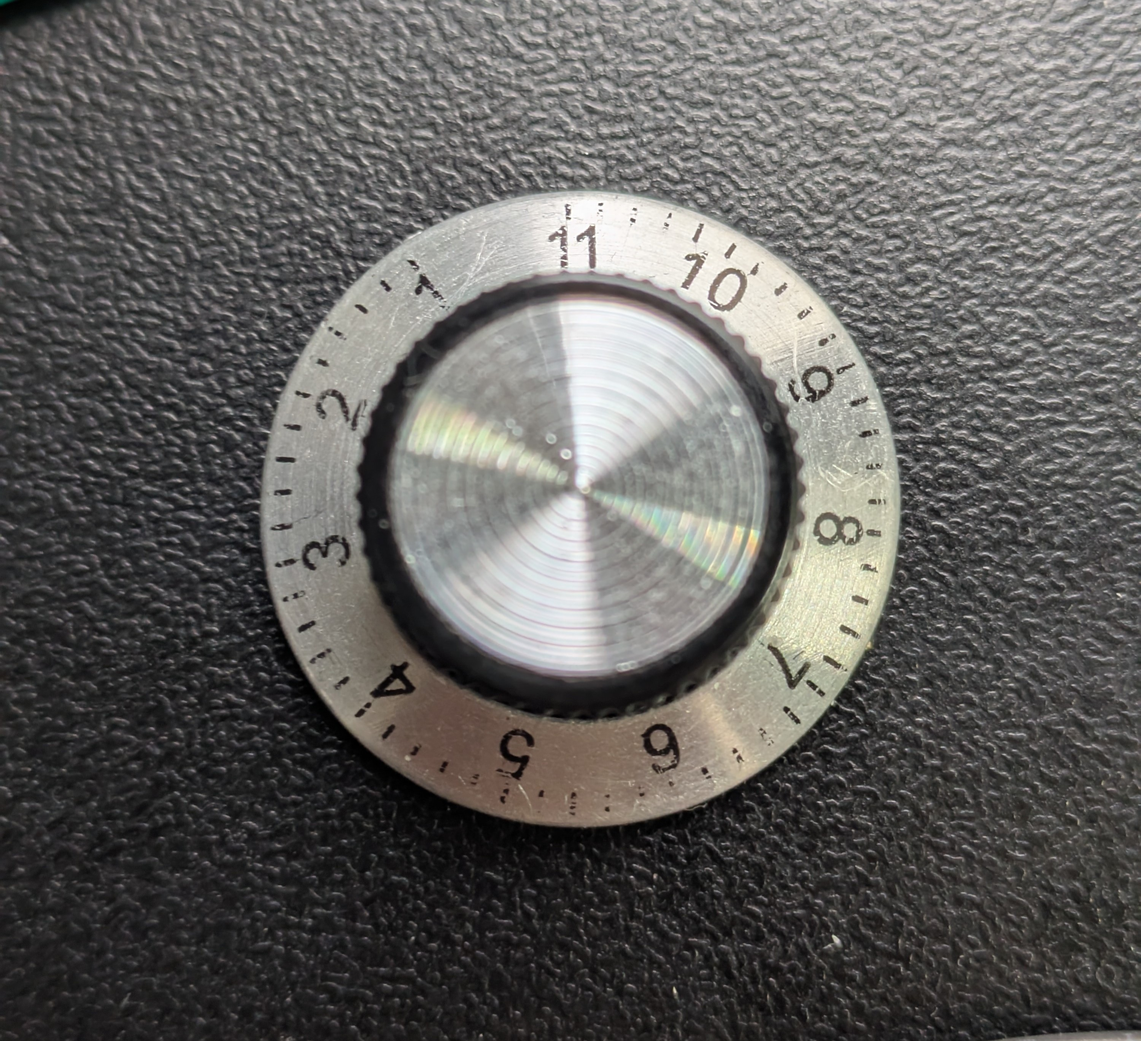
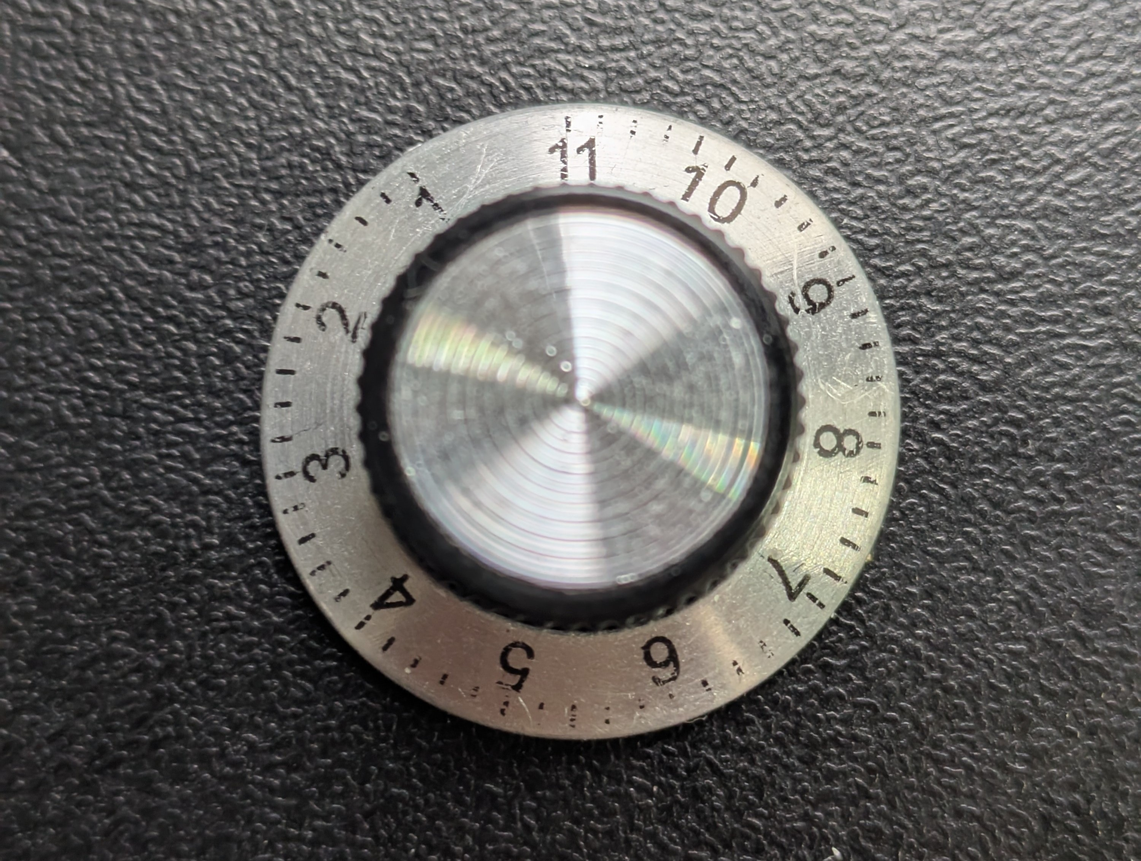
fixed typos and small edits
fixed numerous typos across posts. made small edit to noise.md and cropped image of knob.

diff --git a/_apple-2-blog/splitting.md b/_apple-2-blog/splitting.md
@@ -14,7 +14,7 @@ At the end of the [last post](/apple-2-blog/memory#what-if-i-want-more), while l
 
 ## Parting is not always such sweet sorrow
 
-To spoil the suspence, I'm putting this at the top. Here's is a special nighttime edition of my code running multiple k-means, with the data generation broken into a separate program, on the <span class="no-break">Apple ]\[+</span> hardware.
+To spoil the suspense, I'm putting this at the top. Here's is a special nighttime edition of my code running multiple k-means, with the data generation broken into a separate program, on the <span class="no-break">Apple ]\[+</span> hardware.
 
 {% include video id="VN-NouXrqgg" provider="youtube" %}
 
@@ -27,7 +27,7 @@ To spoil the suspence, I'm putting this at the top. Here's is a special nighttim
 
 The idea is relatively simple. Figure out how to break up the program into independent parts, make each one a separate program and then have them call each other so that only one of them is in memory at any given time. Ezpz. The implementation, however, gets complicated, especially when you consider that all variables are lost when loading a new program (although `HGR` memory persists, which could be handy, as well as any data `POKE`ed into RAM, including the expansion memory card) and each new program will `RUN` from the beginning. As such, this takes planning, especially if you want to run a second program from inside a loop. All the data that needs to be saved or transferred must either be written to floppy or `POKE`ed somewhere safe.
 
-This level of code manipulation would have been a nightmare without Visual Studio Code. Using it, however, made things quite easy. I decided I'd start by pulling out all the code that synthesizes data points into a separate `generate` program. After moving over all the hyperparameters as well as the drawing and generating routings, I added a simple routine to save the data to floppy.
+This level of code manipulation would have been a nightmare without Visual Studio Code. Using it, however, made things quite easy. I decided I'd start by pulling out all the code that synthesizes data points into a separate `generate` program. After moving over all the hyper-parameters as well as the drawing and generating routines, I added a simple routine to save the data to floppy.
 
 ```bbcbasic
 1240 REM == save data to disk ==
@@ -47,7 +47,7 @@ This level of code manipulation would have been a nightmare without Visual Studi
 1380 RETURN
 ```
 
-In the remaing code, which I renamed from `ml` to `k-means`, I now needed a way to determine if the data was on the floppy and branch accordingly. I now start by jumping to the code below. If the file `DATA` exists, it'll populate `DS%(NS% - 1,3)` and then `RETURN`. If not, `INPUT NS%` will throw an error and `ONERR` will then branch to `PRINT D$;"RUN GENERATE"`. `generate` will then run, create the `DATA` file and launch `k-means`. Once the data is loaded, I proceed with multiple runs of k-means, as before.
+In the remaining code, which I renamed from `ml` to `k-means`, I now needed a way to determine if the data was on the floppy and branch accordingly. I now start by jumping to the code below. If the file `DATA` exists, it'll populate `DS%(NS% - 1,3)` and then `RETURN`. If not, `INPUT NS%` will throw an error and `ONERR` will then branch to `PRINT D$;"RUN GENERATE"`. `generate` will then run, create the `DATA` file and launch `k-means`. Once the data is loaded, I proceed with multiple runs of k-means, as before.
 
 ```bbcbasic
 1680 REM == Load data from disk ==
@@ -84,26 +84,26 @@ It's worth noting that I previously wrote a post about how I was (proudly) [not 
 
 Not only does it take ~5min to transfer a floppy image from my laptop to the <span class="no-break">Apple ]\[+</span>, I actually need an emulator (AppleWin) to create the image. Naturally, only running on the hardware would be a missive impediment so I have taken to running updates on the emulator and then transferring to the hardware once everything is looking good.
 
-While there might be a way to turn off the generative AI in Visual Studio Code, it's too good to ignore. Below are three examples of the IDE prediciting what I want to type next. While they're also crazy, I found the second one to be particularly impressive. As I'm typing `FRE(0)`, Visual Studio Code anticipats that I want to finish that line of code with `; " BYTES FREE"`. For it to predict this, it would have had to know, without almost no latency, the functionality of `FRE(0)`.
+While there might be a way to turn off the generative AI in Visual Studio Code, it's too good to ignore. Below are three examples of the IDE predicting what I want to type next. While they're also crazy, I found the second one to be particularly impressive. As I'm typing `FRE(0)`, Visual Studio Code anticipates that I want to finish that line of code with `; " BYTES FREE"`. For it to predict this, it would have had to know, without almost no latency, the functionality of `FRE(0)`.
 
 <div class="image-grid" markdown="1">
   [![Visual Studio Code anticipating a line of code](/assets/images/apple2/visual-studio-anticipation.png)](/assets/images/apple2/visual-studio-anticipation.png "Visual Studio Code anticipating a line of code")
-  [![Visual Studio Code prediciting the end of a line of code](/assets/images/apple2/visual-studio-more-anticipation.png)](/assets/images/apple2/visual-studio-more-anticipation.png "Visual Studio Code prediciting the end of a line of code")
-  [![Visual Studio Code prediciting an update to another block of code](/assets/images/apple2/visual-studio-ai.png)](/assets/images/apple2/visual-studio-ai.png "Visual Studio Code prediciting an update to another block of code")
+  [![Visual Studio Code predicting the end of a line of code](/assets/images/apple2/visual-studio-more-anticipation.png)](/assets/images/apple2/visual-studio-more-anticipation.png "Visual Studio Code predicting the end of a line of code")
+  [![Visual Studio Code predicting an update to another block of code](/assets/images/apple2/visual-studio-ai.png)](/assets/images/apple2/visual-studio-ai.png "Visual Studio Code predicting an update to another block of code")
 </div>
 
-Lastly, as I describe immediatley below, I've decided to use Claude to help find bugs and optimizations. Like Visual Studio Code, it's amazing, so I'm loath to give any of this up. That being said, moving forward I'm going to continue to do the algorithmic development by hand.
+Lastly, as I describe immediately below, I've decided to use Claude to help find bugs and optimizations. Like Visual Studio Code, it's amazing, so I'm loath to give any of this up. That being said, moving forward I'm going to continue to do the algorithmic development by hand.
 
 ## Squashing dem bugs
 
-As I've been playing around with the code, I noticed that, on occassion, in between a couple k-means runs the program would randomly branch to `generate` and begin synthesizing new data. That struck me as odd since the only way to brach to `generate` is through the `ONERR` statement I established right before attempting to load data from the floppy. If there's no data, the code brances to `generate`. Why would this be happening when there's obviously data loaded?
+As I've been playing around with the code, I noticed that, on occasion, in between a couple k-means runs the program would randomly branch to `generate` and begin synthesizing new data. That struck me as odd since the only way to branch to `generate` is through the `ONERR` statement I established right before attempting to load data from the floppy. If there's no data, the code branches to `generate`. Why would this be happening when there's obviously data loaded?
 
 Turns out, `ONERR` will branch on _any_ error and so if there is any bug in the code it'll launch `generate`. I decided to spin up Claude to give me a hand with this. First, it confirmed this suspicion and suggested `POKE 216,0` to disable the `ONERR` branch. Furthermore, it suggested doing this _after_ attempting to read data because, apparently, `OPEN` doesn't fail if there's no file (it'll just open a new one) and thus `READ` won't fail either, so the error doesn't occur until `INPUT NS`. Interestingly, `OPEN` in ProDOS will throw a `file not found` but I'm using DOS 3.3.
 
-Of course, this doesn't change the fact that apparently something else was causing an error. I was already aware of one - when drawingly the line between two centroids there's a random chance that one will be off the screen causeing `HPLOT` to throw and `illegal quanitity` error. I fixed this by adding a range check and just not plotting the line if this is the case. Since intermittent errors are painful to find, I asked Claude to do a deep code review for anything else and it found a couple doozies:
+Of course, this doesn't change the fact that apparently something else was causing an error. I was already aware of one - when drawing the line between two centroids there's a random chance that one will be off the screen causing `HPLOT` to throw and `illegal quantity` error. I fixed this by adding a range check and just not plotting the line if this is the case. Since intermittent errors are painful to find, I asked Claude to do a deep code review for anything else and it found a couple doozies:
 
 1. **Empty clusters** - k-means moves each centroid to the average of the points assigned to it. Trouble is, while unlikely, due to randomness, on a given pass a cluster can end up with no points at all. When this happens the count is zero and `KM(I,0) = KM(I,0) / KM(I,2)` will throw a `divide by zero` error. The fix was to just park empty cluster centroids.
-2. **Log(0)** - I use the Box-Muller transform to generate random normal numbers. This involves taking the natural log of a uniform random number. Applesoft's `RND(1)` returns a value in \[0, 1), which means `0` is a possible. In the very rare event this happens, `LOG(0)` will throw an `illegal quanitity` error. The fix is simply to draw `1 - RND(1)` instead, which lives in (0, 1] and so never returns `0`.
+2. **Log(0)** - I use the Box-Muller transform to generate random normal numbers. This involves taking the natural log of a uniform random number. Applesoft's `RND(1)` returns a value in \[0, 1), which means `0` is a possible. In the very rare event this happens, `LOG(0)` will throw an `illegal quantity` error. The fix is simply to draw `1 - RND(1)` instead, which lives in (0, 1] and so never returns `0`.
 
 ## Optimizations
 
@@ -120,7 +120,7 @@ Before wrapping up this post, I want to point out two optimizations. The first w
 
 Since I'm now a bit obsessed with saving code space, this was a nice win.
 
-On the theme of saving space for odd, the next idea came from yours truly. My range checking statements were proliferating and each of them was looking long. `IF X0% < 1 OR X0% > 270 THEN RETURN` and `IF X1% < 1 OR X1% > 150 THEN RETURN` check that a single point is on the screen prior to `HPLOT` in order to avoid any `illegal quanitity` error. For a line connecting two centroids, I would need 4 checks like that, which will take up a lot of space.
+On the theme of saving space for code, the next idea came from yours truly. My range checking statements were proliferating and each of them was looking long. `IF X0% < 1 OR X0% > 270 THEN RETURN` and `IF X1% < 1 OR X1% > 150 THEN RETURN` check that a single point is on the screen prior to `HPLOT` in order to avoid any `illegal quantity` error. For a line connecting two centroids, I would need 4 checks like that, which will take up a lot of space.
 
 I don't recall ever using `DEF FN` in high school, but I came across it while flipping through the Applesoft BASIC Programming Reference Manual, for jollies, and decided to create:
 
@@ -131,4 +131,4 @@ DEF FN V(Z) = (Z >= 0) * (Z < 160): REM Y in range
 
 These two functions can now determine if a point is on the screen with a simple `IF FN H(X0%) * FN V(X1%) THEN ...`. I now use these throughout. Assuring that an entire line is on the screen, I simply use `IF FN H(XA) * FN H(XB) * FN V(YA) * FN V(YB) THEN HPLOT XA, YA TO XB, YB`. Finally, checking that a 3x3 pixel object, centered around (`X0%`,`X1%`), fits on the screen, I use `FN H(X0% - 1) * FN H(X0% + 1) * FN V(X1% - 1) * FN V(X1% + 1)`.
 
-All of this extra RAM for code has afforded me some space to start analysizing how k-means behaves. More to come...
+All of this extra RAM for code has afforded me some space to start analyzing how k-means behaves. More to come...

diff --git a/_apple-2-blog/memory.md b/_apple-2-blog/memory.md
@@ -19,7 +19,7 @@ Fun. Unlike the [RAM issues](/apple-2-blog/revive/) I had before refurbishing th
 
 ## Memory map
 
-Here's a "RAM Organization and Usage" map that I pulled out of the <span class="no-break">Apple ]\[</span> Reference Manual. The <span class="no-break">Apple ]\[+</span> came with 48Kb of RAM (`$0000-$BFFF`) on the motherboard but I have the memory expansion card, also called a language card, with an extra 16Kb (`$C000-$FFFF`). Using the extra memory was complicated as the 16Kb were squeezed into a 12k addres space (`$D000-$FFFF`) by using bank switching. (I explored storing data on the language card, which would be relatively easy for integers but a nightmare for floats, but it hasn't come to that yet.)
+Here's a "RAM Organization and Usage" map that I pulled out of the <span class="no-break">Apple ]\[</span> Reference Manual. The <span class="no-break">Apple ]\[+</span> came with 48Kb of RAM (`$0000-$BFFF`) on the motherboard but I have the memory expansion card, also called a language card, with an extra 16Kb (`$C000-$FFFF`). Using the extra memory was complicated as the 16Kb were squeezed into a 12k address space (`$D000-$FFFF`) by using bank switching. (I explored storing data on the language card, which would be relatively easy for integers but a nightmare for floats, but it hasn't come to that yet.)
 
 | Page | Hex | Usage |
 |:----:|:---:|-------|
@@ -37,9 +37,9 @@ Here's a "RAM Organization and Usage" map that I pulled out of the <span class="
 | 200-207 | $C8-$CF | I/O ROM |
 | 208-255 | $D0-$FF | ROM or 16Kb language card |
 
-In "normal" operation, a BASIC program would reside starting at `$0800`, right after the primary text page, and on top of the secondary text page. From the end of the BASIC program, variables and arrays would grow up. Strings, for some reasons, would reside at `$BFFF` and grow down. If you don't use graphics, this gives you almost 46Kb of space. If you want to use the primary page of hi-res graphics, known as `HGR`, then you get only a paltry 6Kb of space for your program and variables. (This is surely an artifact of a 1977 design decision to enble `HGR` on machines that only shipped with 16Kb, making `$3FFF` the highest address in RAM.)
+In "normal" operation, a BASIC program would reside starting at `$0800`, right after the primary text page, and on top of the secondary text page. From the end of the BASIC program, variables and arrays would grow up. Strings, for some reasons, would reside at `$BFFF` and grow down. If you don't use graphics, this gives you almost 46Kb of space. If you want to use the primary page of hi-res graphics, known as `HGR`, then you get only a paltry 6Kb of space for your program and variables. (This is surely an artifact of a 1977 design decision to enable `HGR` on machines that only shipped with 16Kb, making `$3FFF` the highest address in RAM.)
 
-What you're seeing in the image above are my data arrays growing into `HGR`. When the arrays are declared, everything is zero, so there's no problem. As soon as I start writing values to the array, however, those show up on the screen. Similary, plotting graphics on the screen has the effect of writing values into the arrays. Obviously, this is a problem.
+What you're seeing in the image above are my data arrays growing into `HGR`. When the arrays are declared, everything is zero, so there's no problem. As soon as I start writing values to the array, however, those show up on the screen. Similarly, plotting graphics on the screen has the effect of writing values into the arrays. Obviously, this is a problem.
 
 ## Moving things around
 
@@ -154,13 +154,13 @@ In [Visual Studio Code](/apple-2-blog/adtpro/#visual-studio-code-for-the-win) I 
 510 RETURN
 ```
 
-The `REM` statements above have the AppleWin results but I also [trasferred the program](https://mdcramer.github.io/apple-2-blog/adtpro) and ran on the actual hardware. The results were _very_ similar: 2m59s for Box-Muller and 3m2s for Irwin-Hall. The emulator is impressive.
+The `REM` statements above have the AppleWin results but I also [transferred the program](https://mdcramer.github.io/apple-2-blog/adtpro) and ran on the actual hardware. The results were _very_ similar: 2m59s for Box-Muller and 3m2s for Irwin-Hall. The emulator is impressive.
 
 As a fun note, I tried changing the order of the two methods because I read that Applesoft BASIC implements lines of code as a linked list, so it takes longer to run lines of code that are further down.
 
 ## TIL the Apple ][+ has garbage collection
 
-While thumbing through the Applesoft BASIC Programming Reference Manual, as one is wont to do, I stumbled across `FRE(expr)`. Since the arrays grow up in memory and the strings grow down, as noted above, this command will return the amount of memory between the two, essentially telling you how much free RAM is left. As a side effect, since changing the contents of a string does not remove the old characters (it just adds the new characters to RAM and moves the pointer) it will force Appplesoft to "house clean," freeing up additional space. Fun fact: according to the manual, `expr` ony exists to hold the parenthesis apart, so just plugging in a `0` is standard.
+While thumbing through the Applesoft BASIC Programming Reference Manual, as one is wont to do, I stumbled across `FRE(expr)`. Since the arrays grow up in memory and the strings grow down, as noted above, this command will return the amount of memory between the two, essentially telling you how much free RAM is left. As a side effect, since changing the contents of a string does not remove the old characters (it just adds the new characters to RAM and moves the pointer) it will force Applesoft to "house clean," freeing up additional space. Fun fact: according to the manual, `expr` ony exists to hold the parenthesis apart, so just plugging in a `0` is standard.
 
 Since I'm not really using strings, garbage collection isn't important, but I might add `FRE(0)` to the code just to see what's happening. While adding the `PRINT PEEK(175) + 256 * PEEK(176)` trick to find the end of the program will necessitate making the program longer (by 54 bytes - I counted), I might do that, too, just for fun.
 

diff --git a/_apple-2-blog/refactoring.md b/_apple-2-blog/refactoring.md
@@ -15,9 +15,9 @@ I suppose there's a balance between planning out what you're going to do and jus
 
 Quick note on line numbers: refactoring BASIC almost _always_ consists of changing line numbers. As such, this code is not going to match up with previous posts. Hopefully that won't be confusing.
 
-## Refactoring the hyperparameters
+## Refactoring the hyper-parameters
 
-To make that happen, I start by moving all of my generator hyperparameters into a single array, `GE(..,..)`, where the first axis is the class. The second axis contains, respectively, \\(u_{x_0}, u_{x_1}, \sigma_{x_0}, \sigma_{x_1}, \rho\\) and \\(\sqrt{1 - \rho^2}\\). (See [Synthesizing data - Box-Muller](/apple-2-blog/synthesizing-data#box-muller-to-the-rescue) for details.) The last element is purely for performance since this quantity will be needed frequently. (Upon further refection, I could have used \\(\sqrt{1 - \rho^2} \sigma_{x_1}\\) but this is a small optimization for later.)
+To make that happen, I start by moving all of my generator hyper-parameters into a single array, `GE(..,..)`, where the first axis is the class. The second axis contains, respectively, \\(u_{x_0}, u_{x_1}, \sigma_{x_0}, \sigma_{x_1}, \rho\\) and \\(\sqrt{1 - \rho^2}\\). (See [Synthesizing data - Box-Muller](/apple-2-blog/synthesizing-data#box-muller-to-the-rescue) for details.) The last element is purely for performance since this quantity will be needed frequently. (Upon further refection, I could have used \\(\sqrt{1 - \rho^2} \sigma_{x_1}\\) but this is a small optimization for later.)
 
 ```bbcbasic
 100 REM == HYPERPARAMETERS ==
@@ -102,7 +102,7 @@ Since I'd like for my data to be randomly sampled, rather than scrambled after t
 700   ON K + 1 GOSUB 1200,1300: REM PLOT SAMPLE
 710 NEXT
 ```
-`RK%(..)` holds the remaining number of samples to be generated for each class. Lines 490 to 550 then produce a random number `P%` which is from 0 to the number of remaining samples to generate and then figures out which class this should be based on the remaining number of samples to be generated for each. The beauty of this is that the probability of generating a sample in each class will be a function of how many remaining samples need to be generated. It took a while to debug, but in the end this produces exactly the number of samples in each class as specified in the hyperparameters.
+`RK%(..)` holds the remaining number of samples to be generated for each class. Lines 490 to 550 then produce a random number `P%` which is from 0 to the number of remaining samples to generate and then figures out which class this should be based on the remaining number of samples to be generated for each. The beauty of this is that the probability of generating a sample in each class will be a function of how many remaining samples need to be generated. It took a while to debug, but in the end this produces exactly the number of samples in each class as specified in the hyper-parameters.
 
 The code from lines 580 to 690 is the same as previously, however, the class-specific variables have been replaced by `GE(..,..)`, as mentioned above. Also, I changed `X%` and `Y%` to `XO%` and `X1%` to avoid confusion and be more consistent with the \\(Y = \theta^T X\\) literature.
 
@@ -110,7 +110,7 @@ Line 700 is nifty. I don't recall using `ON..GOSUB` in high school but it enable
 
 ### Counting the samples
 
-For debugging purposes, I added some code to count the number of samples in each class to make sure it matched the hyperparameters. In the end, I decided to leave it. The loop is actually a bit slow but it's only run once.
+For debugging purposes, I added some code to count the number of samples in each class to make sure it matched the hyper-parameters. In the end, I decided to leave it. The loop is actually a bit slow but it's only run once.
 
 ```bbcbasic
 720 REM == COUNT SAMPLES OF EACH CLASS TO VERIFY RESULT ==

diff --git a/_apple-2-blog/k-means.md b/_apple-2-blog/k-means.md
@@ -80,11 +80,11 @@ At the very top of the program I decided to organize everything into subroutines
 
 The "wait for key" subroutine is the Applesoft BASIC method for simply waiting for any keystroke before continuing. (`PEEK` and `POKE` are commands for directly accessing addresses in memory. I had those numbers memorized in high school but, naturally, I had to look them up.) I thought it'd be nice to add this pause after generating the data but I might take it out later.
 
-Lastly, at the end of the "hyperparameters" section I declare a convenience array, `P%(2,1)` to keep track of 3 random points as well as a few arrays I'm going to use in the k-means algorithm. The reason I do this here is because in Applesoft BASIC you get an error if you declare an array that already exists. Should at some point I want to call the k-means algorithm multiple times, this won't be a problem.
+Lastly, at the end of the "hyper-parameters" section I declare a convenience array, `P%(2,1)` to keep track of 3 random points as well as a few arrays I'm going to use in the k-means algorithm. The reason I do this here is because in Applesoft BASIC you get an error if you declare an array that already exists. Should at some point I want to call the k-means algorithm multiple times, this won't be a problem.
 
 ### Initialize
 
-Getting started, the first thing to do is initialize the algorithm by generating \\(k\\) cluster centroids. (\\(k\\) is a hyperparameter that specifies the number of clusters to be "found." I set it previously with `KN = 2`.)
+Getting started, the first thing to do is initialize the algorithm by generating \\(k\\) cluster centroids. (\\(k\\) is a hyper-parameter that specifies the number of clusters to be "found." I set it previously with `KN = 2`.)
 
 ```bbcbasic
 2000 REM  == K-MEANS ==
@@ -223,7 +223,7 @@ This code is a slog and it's not really critical to understanding ML but I thoug
 3290 RETURN
 ```
 
-Without delving too far into the details, this routine relies heavily on the convenience array, `P%(2,1)`, that I declared during the "hyperparameters" routine. I start by computing the slope of the perpendicular segment connecting two centroids. I then find the midpoint of that segment. (By the way, this routine also does not account for all combinations of centroids, but it works when \\(k=2\\).) I accommodate for when the slope is vertical and use `P%(0,0)` and `P%(0,1)` to store the midpoint between the two centroids and `M` for the slope.
+Without delving too far into the details, this routine relies heavily on the convenience array, `P%(2,1)`, that I declared during the "hyper-parameters" routine. I start by computing the slope of the perpendicular segment connecting two centroids. I then find the midpoint of that segment. (By the way, this routine also does not account for all combinations of centroids, but it works when \\(k=2\\).) I accommodate for when the slope is vertical and use `P%(0,0)` and `P%(0,1)` to store the midpoint between the two centroids and `M` for the slope.
 
 I then iterate through the 4 sides of the 'box' on the screen, using the corners `(10,10)` and `(269,149)` so that the decision boundary isn't drawn all the way to the edges of the screen. I thought that would look prettier this way. I next determine if the decision boundary intersects, respectively, the left, right, top and bottom edges of the box. I use `NX` to keep track of the number of sides of the box intersected by the decision boundary and `P%(NX,0)` and `P%(NX,1)` to keep track of those intersections. If `NX = 3`, which means there are two intersections, I draw the line because it's inside the box.
 

diff --git a/_apple-2-blog/adtpro.md b/_apple-2-blog/adtpro.md
@@ -12,7 +12,7 @@ last_modified_at: 2026-06-10
 As mentioned previously, developing on the <span class="no-break">Apple ]\[+</span> has been [very painful](/apple-2-blog/emulator#suffering-on-the-real-hardware). While the [80-column card](/apple-2-blog/mo-columns) is nifty, and helps a bit, it's still a slog. The keyboard is old and not particularly ergonomic, the monitor is still small, there isn't an easy way to `LIST` specific sections of the code and characterizing the editing features as "clunky" would be charitable. What I'd like to do is use my modern Windows laptop to develop the code, and I'm not even talking about generative AI, but the problem is... how do I then get this onto the <span class="no-break">Apple ]\[+</span>. (Of course I could just use an emulator but how is that fun?)
 
 ## From the Apple ]\[+ to the laptop
-I've already been suffering in the other direction. To transfer the code I developed on the <span class="no-break">Apple ]\[+</span> to my laptop, so that you can witness all its glory on this blog, I've resorted to [taking screen shot with my phone](/apple-2-blog/emulator#transferring-applesoft-basic-code-to-this-blog) and then using ChatGPT and Claude to extract the code using [OCR](https://en.wikipedia.org/wiki/Optical_character_recognition){:target="_blank"}, which I then stitch together. Not only is that cumbersome, it's error-prone. After sharing my k-means writeup on [Hacker News](/apple-2-blog/k-means#social-media-sharing), a very helpful [gentleman](https://github.com/thecloudexpanse){:target="_blank"} tried to run my code and found a bunch of errors, which he shared with me on GitHub. Turns out, the OCR was _far_ from perfect.
+I've already been suffering in the other direction. To transfer the code I developed on the <span class="no-break">Apple ]\[+</span> to my laptop, so that you can witness all its glory on this blog, I've resorted to [taking screen shot with my phone](/apple-2-blog/emulator#transferring-applesoft-basic-code-to-this-blog) and then using ChatGPT and Claude to extract the code using [OCR](https://en.wikipedia.org/wiki/Optical_character_recognition){:target="_blank"}, which I then stitch together. Not only is that cumbersome, it's error-prone. After sharing my k-means write-up on [Hacker News](/apple-2-blog/k-means#social-media-sharing), a very helpful [gentleman](https://github.com/thecloudexpanse){:target="_blank"} tried to run my code and found a bunch of errors, which he shared with me on GitHub. Turns out, the OCR was _far_ from perfect.
 
 ## From the laptop to the Apple ]\[+
 More importantly, however, when I asked him how he was able to get my code off this blog and onto his <span class="no-break">Apple //e</span> computer, he turned me on to [ADTPro](https://www.adtpro.com/){:target="_blank"} (Apple Disk Transfer ProDOS). It is software that transfers floppy images over the cassette jacks between a modern computer and <span class="no-break">Apple ]\[-era</span> computers. Ingenious.

diff --git a/_apple-2-blog/noise.md b/_apple-2-blog/noise.md
@@ -9,7 +9,7 @@ date: 2026-07-03
 last_modified_at: 2026-07-03
 ---
 
-Taking a break from exploring k-means on my <span class="no-break">Apple ]\[+</span>, I decided to takle the problem of significantly greater import: the speaker is really loud. I don't recall this ever bothering me in high school, but it's pretty loud and there is no way to non-programmatically control the volume.
+Taking a break from exploring k-means on my <span class="no-break">Apple ]\[+</span>, I decided to tackle a problem of significantly greater import: the speaker is really loud. I don't recall this ever bothering me in high school but it's pretty loud and there is no way to non-programmatically control it. I'd like to have a volume knob so I can play [Ultima 1](https://mortalwayfare.com/in-the-beginning-there-was-basic/){:target="_blank"} late at night without waking the dead.
 
 ## It goes to 11
 
@@ -17,7 +17,7 @@ There's not a lot of how-to retro hardware upgrade videos on the internet but I 
 
 {% include video id="rO5eXxVxK_4" provider="youtube" %}
 
-While it's a little difficult to follow (he offers a schmetic but it's hard to tell which wires are going where), he links to the necessary parts. In addition to a 1kΩ audio log potentiometer, I got a knob that [goes to 11](https://youtu.be/uMSV4OteqBE?si=e2hANo3D6ktuzAxs&t=78){:target="_blank"} and an STL file to 3D print a small mount for the potentiometer and knob that slides into one of the air vents.
+While it's a little difficult to follow (he offers a schematic but it's hard to tell which wires are going where), he links to the necessary parts. In addition to a 1kΩ audio log potentiometer, I got a knob that [goes to 11](https://youtu.be/uMSV4OteqBE?si=e2hANo3D6ktuzAxs&t=78){:target="_blank"} and an STL file to 3D print a small mount for the potentiometer and knob that slides into one of the air vents.
 
 <div class="image-grid" markdown="1">
   [![Parts and equipment to add a volume knob](/assets/images/apple2/parts-for-volume-know.jpg)](/assets/images/apple2/parts-for-volume-know.jpg "Parts and equipment to add a volume knob")
@@ -72,7 +72,7 @@ From there it was easy. I chose the colors of the jumper cables to line up with 
 
 ## The Verdict
 
-It works!
+It works! (Turn up the volumn on your computer if you watch the video below.)
 
 {% include video id="zObSVatIQxs" provider="youtube" %}
 

diff --git a/_apple-2-blog/synthesizing-data.md b/_apple-2-blog/synthesizing-data.md
@@ -73,7 +73,7 @@ With a particular fondness for all thing [Gaussian](https://en.wikipedia.org/wik
 ```
 `HOME` clears the screen and `VTAB 21` moves the cursor to the 21st text line on the screen, which will be the first line under the graphics after `HGR`. The <span class="no-break">Apple ]\[+</span> doesn't come with a constant for π so I set that up using all the precision available.
 
-`AM%` is a two element array of integers to store, respectively, the x-mean and y-mean values for the A data set. (The % sign makes the variable an integer which save space but actually reduced performance because mathematical operations on the <span class="no-break">Apple ]\[+</span> convert integers to real numbers and then back again.) `AS%` does the same for the x- and y-standard deviations. `AC` is a real number correlation coefficient ∈ [-1, 1]. Finally, `AN` is the number of elements in the A dataset. The corresponding B data set hyperparameters are similar. (In Applesoft BASIC only the [first two characters](https://youtu.be/PHfKCxjsmos?si=lVgpeslJ8ZBiRaAl&t=39){:target="_blank"} of a variable name are 'considered' so you have to be careful of collisions.)
+`AM%` is a two element array of integers to store, respectively, the x-mean and y-mean values for the A data set. (The % sign makes the variable an integer which save space but actually reduced performance because mathematical operations on the <span class="no-break">Apple ]\[+</span> convert integers to real numbers and then back again.) `AS%` does the same for the x- and y-standard deviations. `AC` is a real number correlation coefficient ∈ [-1, 1]. Finally, `AN` is the number of elements in the A dataset. The corresponding B data set hyper-parameters are similar. (In Applesoft BASIC only the [first two characters](https://youtu.be/PHfKCxjsmos?si=lVgpeslJ8ZBiRaAl&t=39){:target="_blank"} of a variable name are 'considered' so you have to be careful of collisions.)
 
 ### Box-Muller to the rescue
 The Apple ][+ can generate uniform random variables from 0 to 0.999999999 using `RND()`, however, to get standard normal random variables we'll have to use the [Box-Muller](https://en.wikipedia.org/wiki/Box%E2%80%93Muller_transform){:target="_blank"} transform.

diff --git a/_apple-2-blog/emulator.md b/_apple-2-blog/emulator.md
@@ -50,4 +50,4 @@ I tried taking a video of the entire program scrolling by but the quality was no
 
 ## No generative AI
 
-Or not much, at any rate. GenAI is amazing and Cursor is beyond fantastic, but, as my friend said, part of the fun is writing the code myself. I'll admit to getting assistance with [adpative quota sampling](/apple-2-blog/refactoring#generating-the-samples), which isn't particularly difficult. I've also asked about how some commands work (e.g. `RND()`) although I've been relying primarily on the original [reference manual](/apple-2-blog/synthesizing-data). The rest, however, is me.
+Or not much, at any rate. GenAI is amazing and Cursor is beyond fantastic, but, as my friend said, part of the fun is writing the code myself. I'll admit to getting assistance with [adaptive quota sampling](/apple-2-blog/refactoring#generating-the-samples), which isn't particularly difficult. I've also asked about how some commands work (e.g. `RND()`) although I've been relying primarily on the original [reference manual](/apple-2-blog/synthesizing-data). The rest, however, is me.
